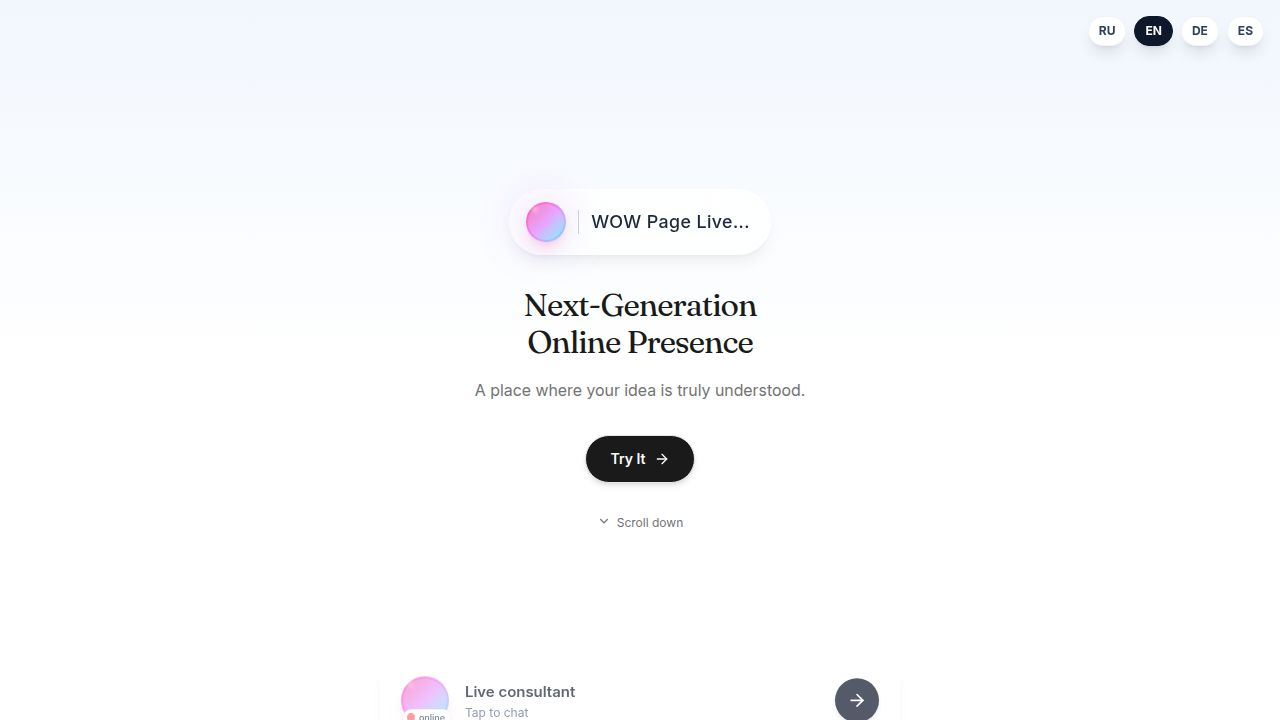
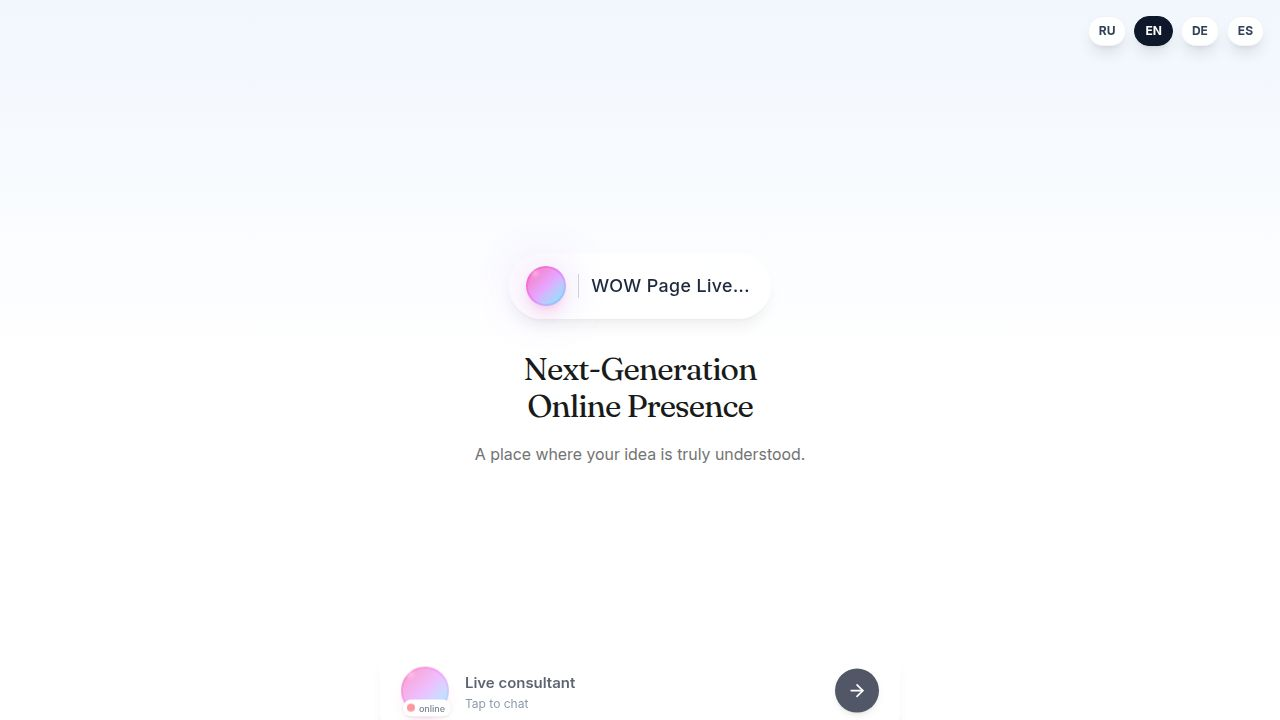
Start live video calls immediately without intermediate screens
Update the LiveAvatarChat component to automatically start video calls when `autoStart` is true, by merging idle/connecting states with the connected state and displaying a connecting overlay.

Replit-Commit-Author: Agent
Replit-Commit-Session-Id: f6b70349-1d41-4b9c-96b6-8f43eaa3f49e
Replit-Commit-Checkpoint-Type: intermediate_checkpoint
Replit-Commit-Event-Id: c0218849-1f43-4016-abc2-1637bb48cf8b
Replit-Commit-Screenshot-Url: https://storage.googleapis.com/screenshot-production-us-central1/99026f04-89c8-4da1-87eb-aada4135dc22/f6b70349-1d41-4b9c-96b6-8f43eaa3f49e/Fzt7tty
Replit-Helium-Checkpoint-Created: true

diff --git a/client/src/components/ui/LiveAvatarChat.tsx b/client/src/components/ui/LiveAvatarChat.tsx
@@ -554,7 +554,7 @@ export function LiveAvatarChat({
         </div>
 
         <div className="flex-1 flex flex-col relative overflow-hidden">
-          {sessionState === "idle" && (
+          {sessionState === "idle" && !autoStart && (
             <motion.div
               initial={{ opacity: 0 }}
               animate={{ opacity: 1 }}
@@ -604,10 +604,10 @@ export function LiveAvatarChat({
               </div>
             </motion.div>
           )}
-
+          
           {/* ... other states (connecting, waiting, error) remain similar ... */}
 
-          {sessionState === "connected" && (
+          {(sessionState === "connected" || (autoStart && (sessionState === "idle" || sessionState === "connecting" || sessionState === "waiting_avatar"))) && (
             <div className="absolute inset-0 flex items-center justify-center bg-black">
               {/* VIDEO SECTION - TRUE FULL SCREEN */}
               <video
@@ -619,27 +619,39 @@ export function LiveAvatarChat({
                 data-testid="video-avatar"
               />
               
-              {/* Timer Display */}
-              <div className="absolute top-20 left-1/2 transform -translate-x-1/2 z-10">
-                <div className={cn(
-                  "px-4 py-2 rounded-full backdrop-blur-md font-mono text-lg font-semibold",
-                  remainingSeconds <= 10 
-                    ? "bg-red-500/80 text-white" 
-                    : "bg-black/40 text-white/90"
-                )}>
-                  {Math.floor(remainingSeconds / 60)}:{(remainingSeconds % 60).toString().padStart(2, '0')}
+              {/* Connecting Overlay - shown when not yet connected */}
+              {sessionState !== "connected" && (
+                <div className="absolute inset-0 flex flex-col items-center justify-center bg-black/80 z-20">
+                  <div className="w-16 h-16 mb-4 rounded-full bg-gradient-to-br from-cyan-500 to-blue-500 flex items-center justify-center animate-pulse">
+                    <Video className="w-8 h-8 text-white" />
+                  </div>
+                  <p className="text-white/80 text-sm">{TEXTS.duringCall.connecting}</p>
                 </div>
-              </div>
+              )}
+              
+              {/* Timer Display - only when connected */}
+              {sessionState === "connected" && (
+                <div className="absolute top-20 left-1/2 transform -translate-x-1/2 z-10">
+                  <div className={cn(
+                    "px-4 py-2 rounded-full backdrop-blur-md font-mono text-lg font-semibold",
+                    remainingSeconds <= 10 
+                      ? "bg-red-500/80 text-white" 
+                      : "bg-black/40 text-white/90"
+                  )}>
+                    {Math.floor(remainingSeconds / 60)}:{(remainingSeconds % 60).toString().padStart(2, '0')}
+                  </div>
+                </div>
+              )}
               
               {/* Mute/End buttons Overlay */}
               <div className="absolute bottom-8 left-0 right-0 flex justify-center gap-4 z-10">
                 <button
                   onClick={toggleMute}
-                  disabled={isAvatarSpeaking}
+                  disabled={isAvatarSpeaking || sessionState !== "connected"}
                   className={cn(
                     "w-14 h-14 rounded-full flex items-center justify-center transition-all backdrop-blur-md shadow-lg",
                     isMuted ? "bg-white/20 text-white" : "bg-white text-black",
-                    isAvatarSpeaking && "opacity-50"
+                    (isAvatarSpeaking || sessionState !== "connected") && "opacity-50"
                   )}
                 >
                   {isMuted ? <MicOff className="w-6 h-6" /> : <Mic className="w-6 h-6" />}

diff --git a/client/src/pages/home.tsx b/client/src/pages/home.tsx
@@ -799,6 +799,7 @@ function LiveScenarios() {
           avatarImage: currentConfig.avatarImage,
         }}
         language={language}
+        autoStart={true}
       />
     </section>
   );
@@ -978,6 +979,7 @@ function WowLivePage({ isOpen, onClose, language }: { isOpen: boolean; onClose: 
             description: "Live Avatar Chat",
           }}
           language={language}
+          autoStart={true}
         />
       </div>
       <div className="p-4 pb-8">
